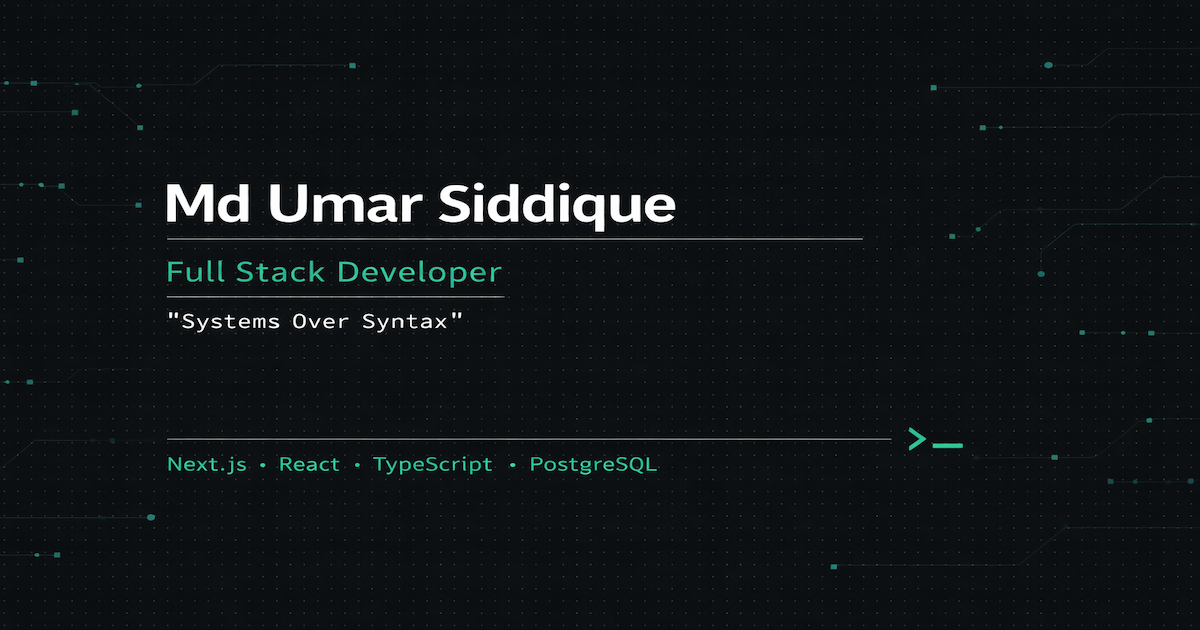
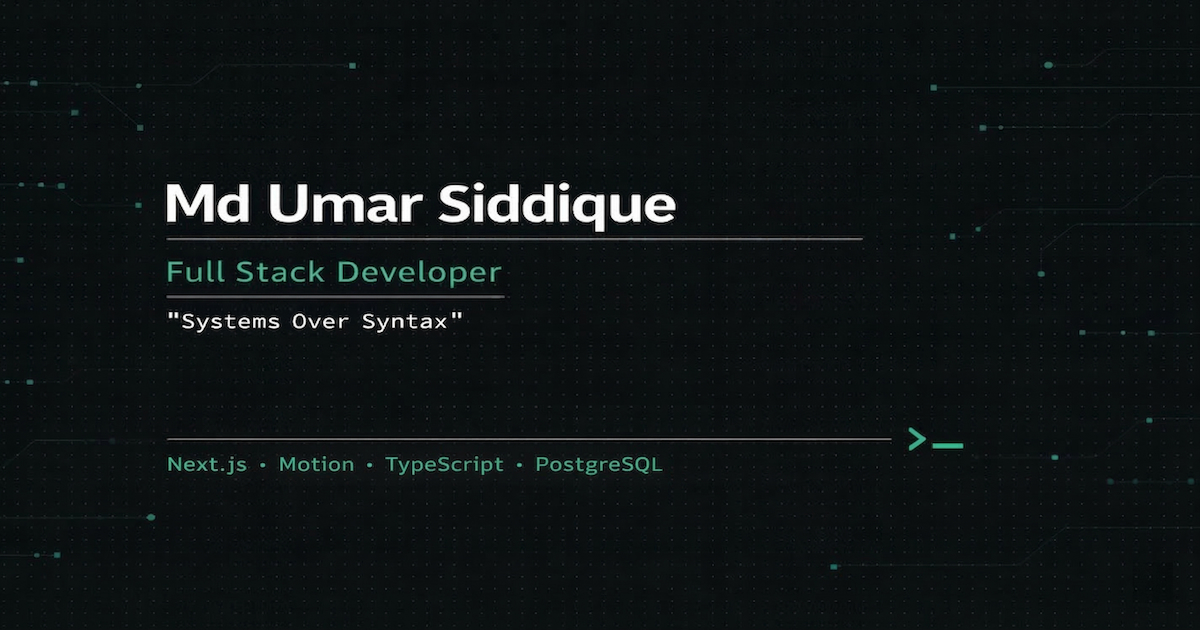
fix: update og metadata description and stack

diff --git a/app/layout.tsx b/app/layout.tsx
@@ -30,17 +30,8 @@ export const metadata: Metadata = {
     default: 'Md Umar Siddique | Full Stack Developer',
   },
   description:
-    'Md Umar Siddique — Full Stack Developer. Systems Over Syntax: Next.js, React, TypeScript, PostgreSQL.',
+    'Md Umar Siddique — Full Stack Developer. Systems Over Syntax: Next.js, TypeScript, PostgreSQL, Motion.',
   metadataBase: new URL('https://www.umarsiddique.dev'),
-  keywords: [
-    'Full Stack Developer',
-    'Next.js',
-    'React',
-    'TypeScript',
-    'PostgreSQL',
-    'Framer Motion',
-    'Md Umar Siddique',
-  ],
   authors: [{ name: 'Md Umar Siddique', url: 'https://www.umarsiddique.dev' }],
   creator: 'Md Umar Siddique',
   robots: 'index, follow',
@@ -52,7 +43,7 @@ export const metadata: Metadata = {
       default: 'Md Umar Siddique | Full Stack Developer',
     },
     description:
-      'Md Umar Siddique — Full Stack Developer. Systems Over Syntax: Next.js, React, TypeScript, PostgreSQL.',
+      'Md Umar Siddique — Full Stack Developer. Systems Over Syntax: Next.js, TypeScript, PostgreSQL, Motion.',
   },
   twitter: {
     card: 'summary_large_image',
@@ -61,7 +52,7 @@ export const metadata: Metadata = {
       default: 'Md Umar Siddique | Full Stack Developer',
     },
     description:
-      'Md Umar Siddique — Full Stack Developer. Systems Over Syntax: Next.js, React, TypeScript, PostgreSQL.',
+      'Md Umar Siddique — Full Stack Developer. Systems Over Syntax: Next.js, TypeScript, PostgreSQL, Motion.',
   },
 };
 
